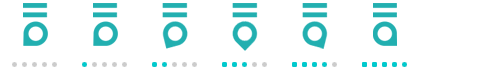
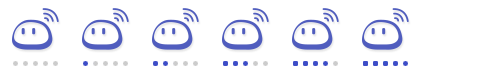
aidoop manifest updated

diff --git a/client/themes/app-theme.css b/client/themes/app-theme.css
@@ -1,6 +1,6 @@
 body {
   /* theme color */
-  --primary-color-rgb: 20, 154, 155;
+  --primary-color-rgb: 76, 90, 164;
   --primary-color: rgb(var(--primary-color-rgb));
   --secondary-color: #3a5877;
   --focus-color: var(--theme-white-color);
